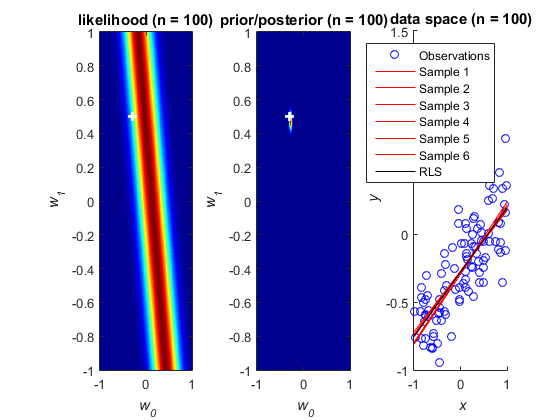
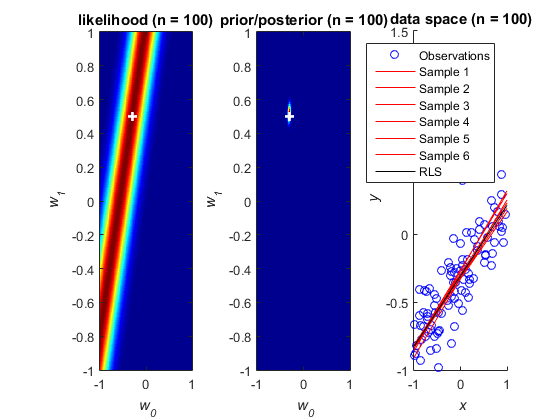
Forgot to change back weights for testing, silly me

diff --git a/proj2/update_plot_3_7.m b/proj2/update_plot_3_7.m
@@ -65,8 +65,8 @@ function update_plot_3_7(n,N,nSamples,w,x,t,alpha,beta,w_est_prior,w_est_matrix,
     
     subplot(1,3,1)
     % Calculate probability of target for each w0, w1 given new observation
-    w0 = -1:0.2:1;
-    w1 = -1:0.2:1;
+    w0 = -1:0.01:1;
+    w1 = -1:0.01:1;
     % Meshgrid to avoid nested for loop
     % Since w0 is copied over row-wise such that there are length(w1) rows,
     % w1 represents the y-axis and we don't have to worry about transposing
@@ -81,8 +81,8 @@ function update_plot_3_7(n,N,nSamples,w,x,t,alpha,beta,w_est_prior,w_est_matrix,
     SL = beta^(-1);
     % Gaussian distribution for new target (P78, 2.42)
     % We evaluate the probability for all w0, w1 pairs
-    FL = 1/(2*pi*SL)^(1/2)*exp(-1/(2*SL)*(t(n)-mL).^2)
-    %FL = normpdf(t(n),mL,sqrt(SL)) # same result, normpdf takes std. dev
+    FL = 1/(2*pi*SL)^(1/2)*exp(-1/(2*SL)*(t(n)-mL).^2);
+    %FL = normpdf(t(n),mL,sqrt(SL)); # same result, normpdf takes std. dev
     % Plot distribution image
     imagesc(w0,w1,FL);
     set(gca,'YDir','normal') % unflip y-axis for imagesc
